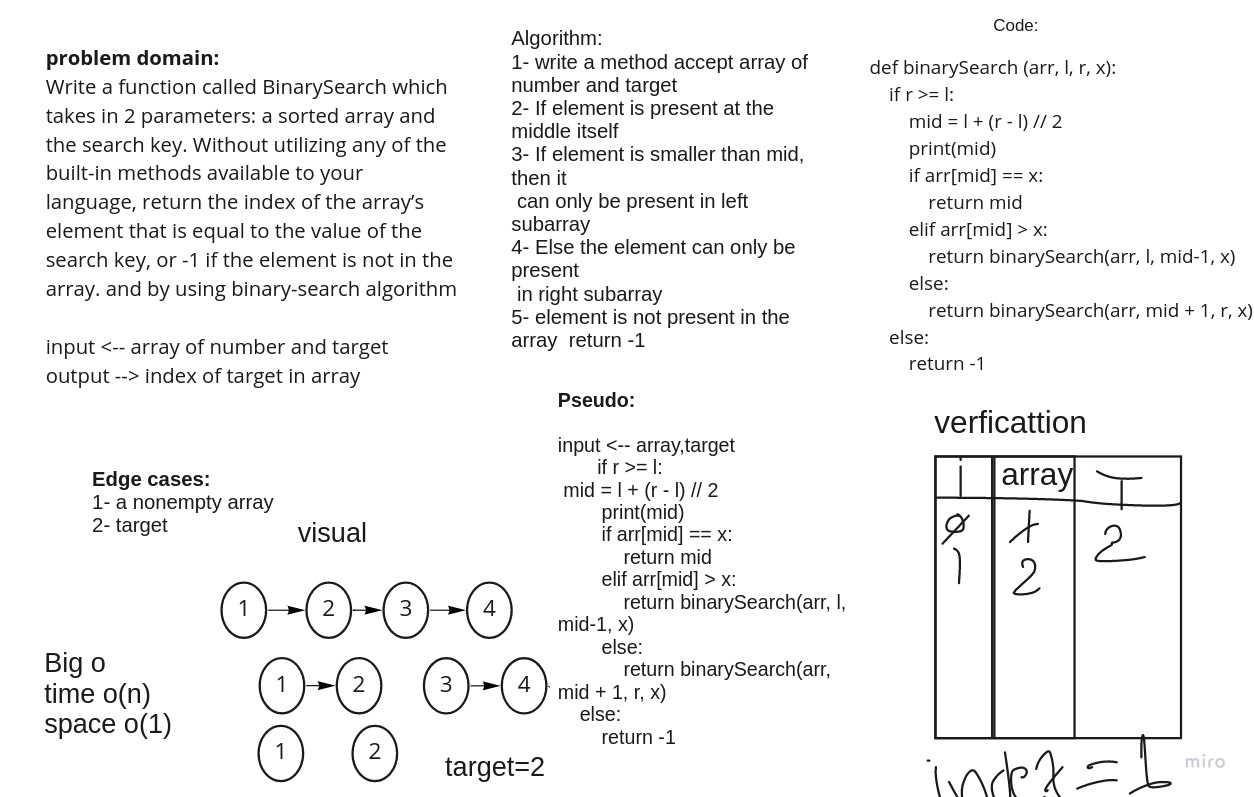
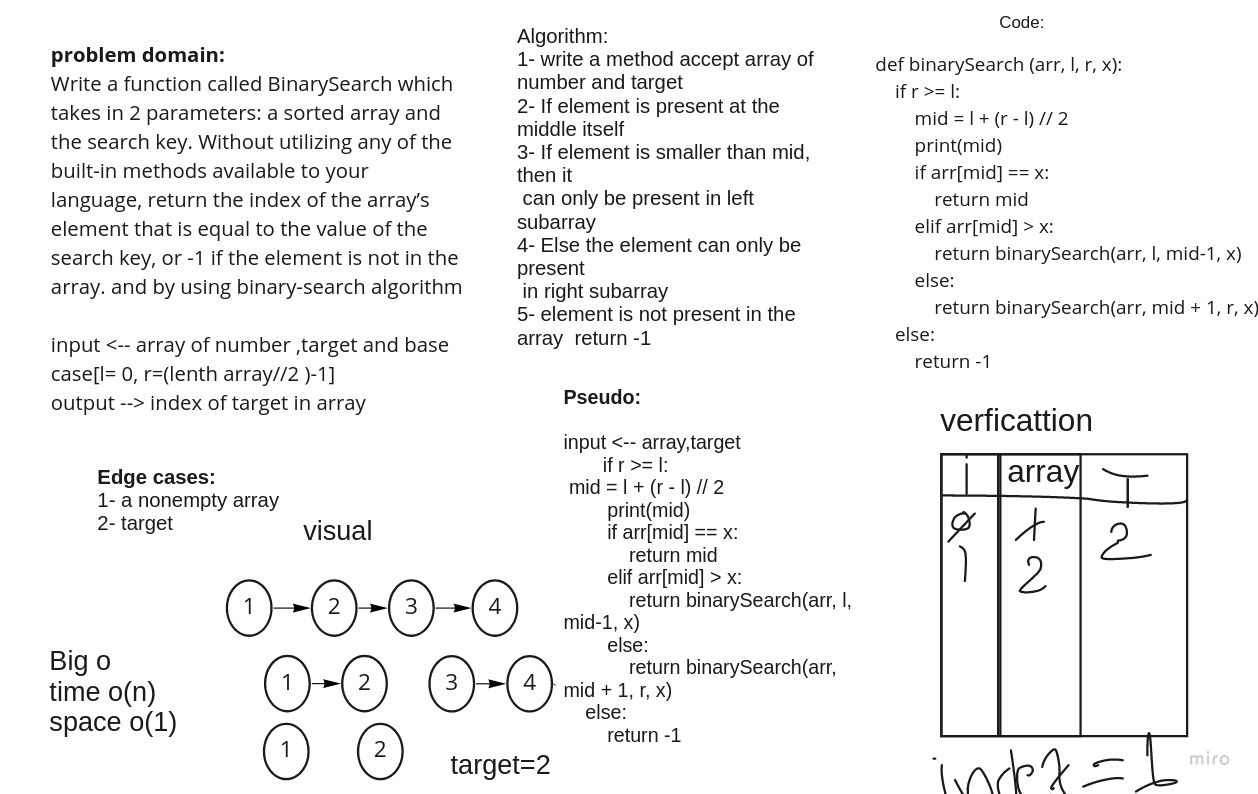
fexed the error

diff --git a/python/code_challenges/BinarySearch/BinarySearch.md b/python/code_challenges/BinarySearch/BinarySearch.md
@@ -1,3 +1,22 @@
-# BinarySearch.jpg
+
+# Binary Search of Sorted Array
+<!-- Description of the challenge -->
+
+Write a function called BinarySearch which takes in 2 parameters: a sorted array and the search key. Without utilizing any of the built-in methods available to your language, return the index of the array’s element that is equal to the value of the search key, or -1 if the element is not in the array.
+
+## Whiteboard Process
 
 ![](BinarySearch.jpg)
+
+## Approach & Efficiency
+<!-- What approach did you take? Discuss Why. What is the Big O space/time for this approach? -->
+
+1. read carefully the problem domain and analyze it
+2. determine the input and expected output
+3. determine the algorithm that takes les time and space
+4. write code
+5. verfication the code
+
+i used the BinarySearch algorithm because it dependance on seperate array more than one time; it check the liength of array and then stel divided it to find the target number,
+
+the big o for this algorthim is o(n) because it not have to iteration over the array
